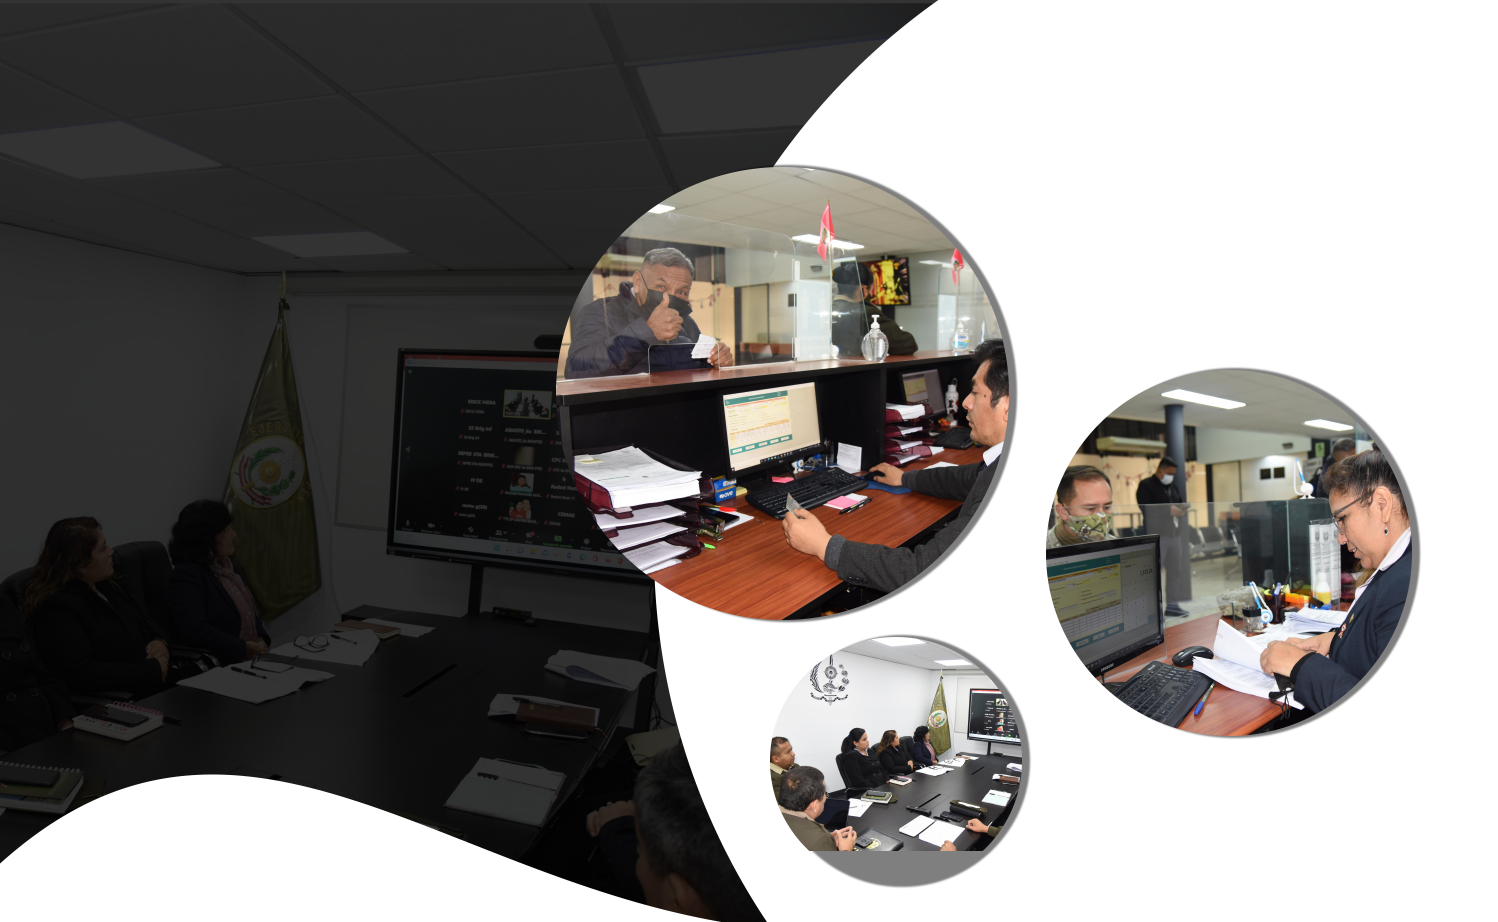
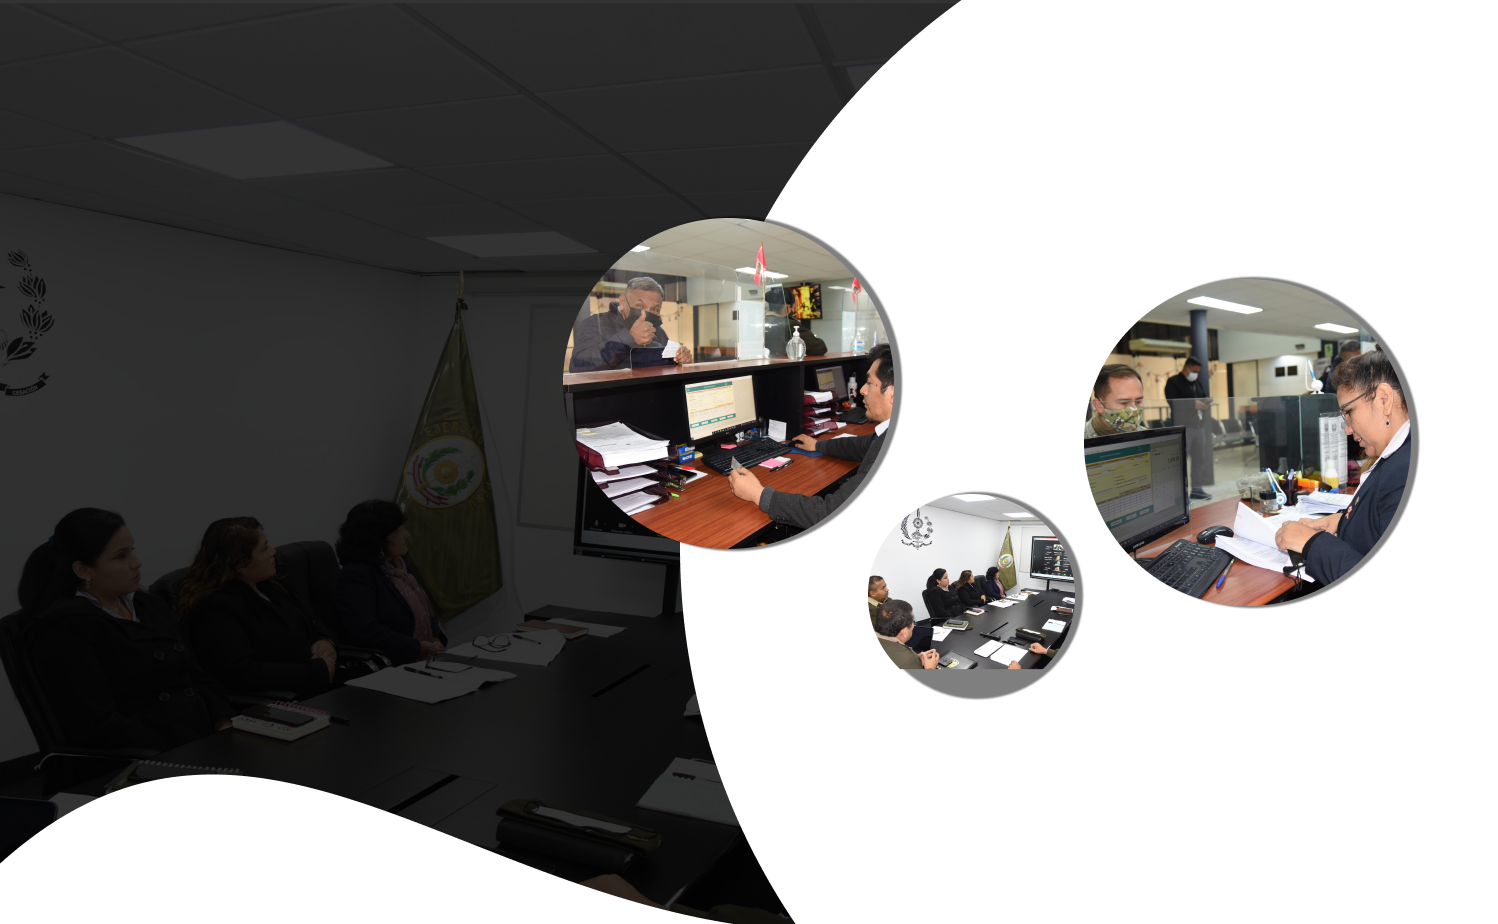
responsive "home"

diff --git a/src/styles/Components/home.scss b/src/styles/Components/home.scss
@@ -8,12 +8,8 @@ $medium: 1280px;
     -moz-background-size: cover;
     -o-background-size: cover;
     background-size: cover;
-    height: calc(100vh - 140px);
+    height: calc(100vh - 165px);
     padding: 0 30px;
-    @media screen and (max-width: $small) {
-        background: url('../../imgs/View/Home/background-imagen/1125x2436.png') no-repeat center center fixed;
-        background-size: cover;
-    }
 
     h2 {
         text-transform: uppercase;
@@ -45,6 +41,116 @@ $medium: 1280px;
             text-decoration: none;
             color: #FFF;
         }
-
     }
+
+    @media only screen and (min-width: 0px) {
+        background: url('../../imgs/View/Home/background-imagen/min-width_700.png') no-repeat center center fixed;
+        background-size: cover;
+        h2 {
+            padding-top: 70px;
+            font-size: 18px;
+            max-width: 200px;
+        }
+        .mision {
+            padding-top: 10px;
+            h2 {
+                font-size: 20px;
+                padding-top: 10px;
+            }
+            p {
+                max-width: 175px;
+                font-size: 12px;
+            }
+        }
+        .button-to-contact {
+            padding: 10px 5px;
+            margin-top: 30px;
+            max-width: 140px;
+            font-size: 13px;
+            border-radius: 10px;
+        }
+    }
+    @media only screen and (min-width: 360px) {
+        background: url('../../imgs/View/Home/background-imagen/min-width_700.png') no-repeat center center fixed;
+        background-size: cover;
+    }
+    @media only screen and (min-width: 480px) {
+        background: url('../../imgs/View/Home/background-imagen/min-width_700.png') no-repeat center center fixed;
+        background-size: cover;
+        h2 {
+            font-size: 22px;
+            max-width: 280px;
+        }
+        .mision {
+            padding-top: 15px;
+            h2 {
+                font-size: 25px;
+                padding-top: 10px;
+            }
+            p {
+                max-width: 225px;
+                font-size: 15px;
+            }
+        }
+    }
+    @media only screen and (min-width: 700px) {
+        background: url('../../imgs/View/Home/background-imagen/min-width_700.png') no-repeat center center fixed;
+        background-size: cover;
+        h2 {
+            font-size: 30px;
+            max-width: 420px;
+        }
+        .mision {
+            padding-top: 50px;
+            h2 {
+                text-transform: uppercase;
+                letter-spacing: 4px;
+                font-size: 25px;
+                padding-top: 10px;
+            }
+            p {
+                max-width: 325px;
+                font-size: 15px;
+            }
+        }
+    }
+    @media only screen and (min-width: 900px) {
+        background: url('../../imgs/View/Home/background-imagen/min-width_800.png') no-repeat center center fixed;
+        background-size: cover;
+        .mision {
+            padding-top: 15px;
+        }
+        .button-to-contact {
+            background-color: #F50C10;
+            text-transform: uppercase;
+            padding: 20px 10px;
+            margin-top: 40px;
+            max-width: 206px;
+            border-radius: 15px;
+            font-size: 15px;
+            font-weight: 700;
+            .contact {
+                text-decoration: none;
+                color: #FFF;
+            }
+        }
+    }
+    @media only screen and (min-width: 1060px) {
+        background: url('../../imgs/View/Home/bg-home.png') no-repeat center center fixed;
+        background-size: cover;
+    }
+    @media only screen and (min-width: 1260px) {
+        background: url('../../imgs/View/Home/bg-home.png') no-repeat center center fixed;
+        background-size: cover;
+    }
+    @media only screen and (min-width: 1440px) {
+        background: url('../../imgs/View/Home/bg-home.png') no-repeat center center fixed;
+        background-size: cover;
+    }
+    @media only screen and (min-width: 1920px) {
+        background: url('../../imgs/View/Home/bg-home.png') no-repeat center center fixed;
+        background-size: cover;
+    }
+
+
 }

diff --git a/src/App.js b/src/App.js
@@ -24,26 +24,20 @@ import CambiarContrasenia from './components/Views/Usuarios/CambiarContrasenia';
 function App() {
   let navegador = navigator.userAgent;
   let isMobile;
-  let isOrientationVertical = window.orientation === 0 ? false : true;
-
-  const isOrientationVerticalFx = () => {
-    isOrientationVertical = window.orientation === 0 ? false : true
-  }
+  let isOrientationVertical;
   
   // eslint-disable-next-line no-unused-expressions
   (navigator.userAgent.match(/Android/i) || navigator.userAgent.match(/webOS/i) || navigator.userAgent.match(/iPhone/i) || navigator.userAgent.match(/iPad/i) || navigator.userAgent.match(/iPod/i) || navigator.userAgent.match(/BlackBerry/i) || navigator.userAgent.match(/Windows Phone/i))?
     ( isMobile = true,
-      isOrientationVerticalFx()
+      window.orientation ===  0 ? isOrientationVertical = true : isOrientationVertical = false
     )
     :
-    (isMobile = false);
-    console.log(window.orientation , "si es 0 entonces False, si es 90 entonces True");
+    ( isMobile = false,
+      window.orientation ===  0 ? isOrientationVertical = false : isOrientationVertical = true
+    );
+    // console.log(window.orientation , "si es 0 entonces False, si es 90 entonces True");
 
-  window.addEventListener("orientationchange", function() {
-    isOrientationVertical = window.orientation === 0 ? false : true;
-  }, false)
-
-  console.log('isOrientationVertical', isOrientationVertical);
+  // console.log('isOrientationVertical', isOrientationVertical);
 
   useEffect(() => {
     if (!localStorage.getItem('theme')) {

diff --git a/src/components/Views/Home/home.js b/src/components/Views/Home/home.js
@@ -11,8 +11,12 @@ const Home = (props) => {
   console.log("window.height", window.innerHeight)
   console.log("window.width", window.innerWidth)
 
+  let {isMobile, isOrientationVertical} = props.data
   // console.log(props.data);
-
+  window.addEventListener("orientationchange", function() {
+    isMobile = true && window.orientation ===  0 ? isOrientationVertical = true : isOrientationVertical = false;
+    console.log('isOrientationVertical', isOrientationVertical);
+  }, false)
 
   return (
     <div className='container-home'>
